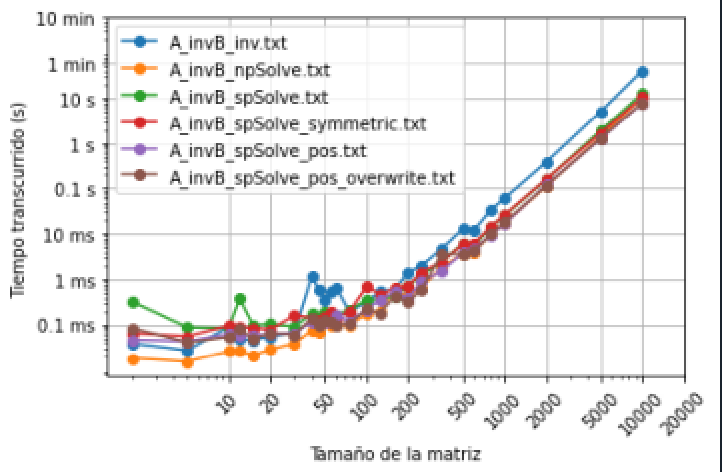
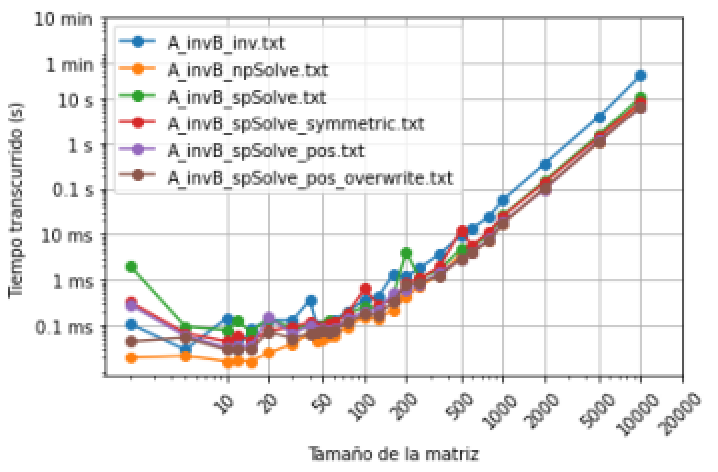
Entrega 6

diff --git a/Entrega_6/Desempeño_Ax=b.py b/Entrega_6/Desempeño_Ax=b.py
@@ -76,7 +76,7 @@ for i in N:
         
         #Usando solve scipy pos overwrite
         t1 = perf_counter() 
-        linalg.solve(A,B, assume_a = "pos", overwrite_a=True )
+        linalg.solve(A,B, assume_a = "pos", overwrite_a=True, overwrite_b=True )
         t2 = perf_counter()
         
         dt3 = t2 - t1
